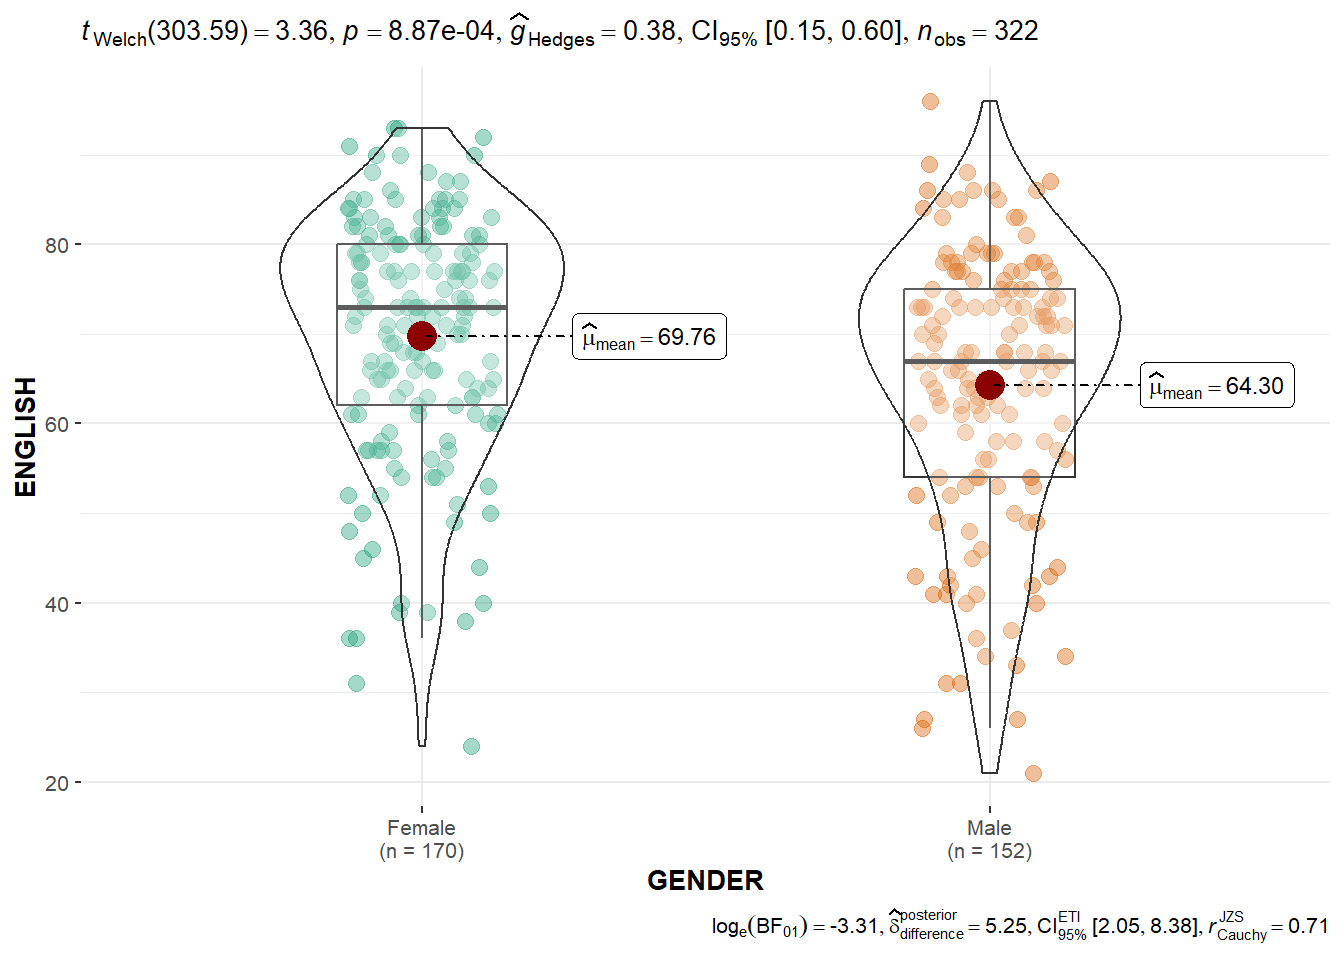
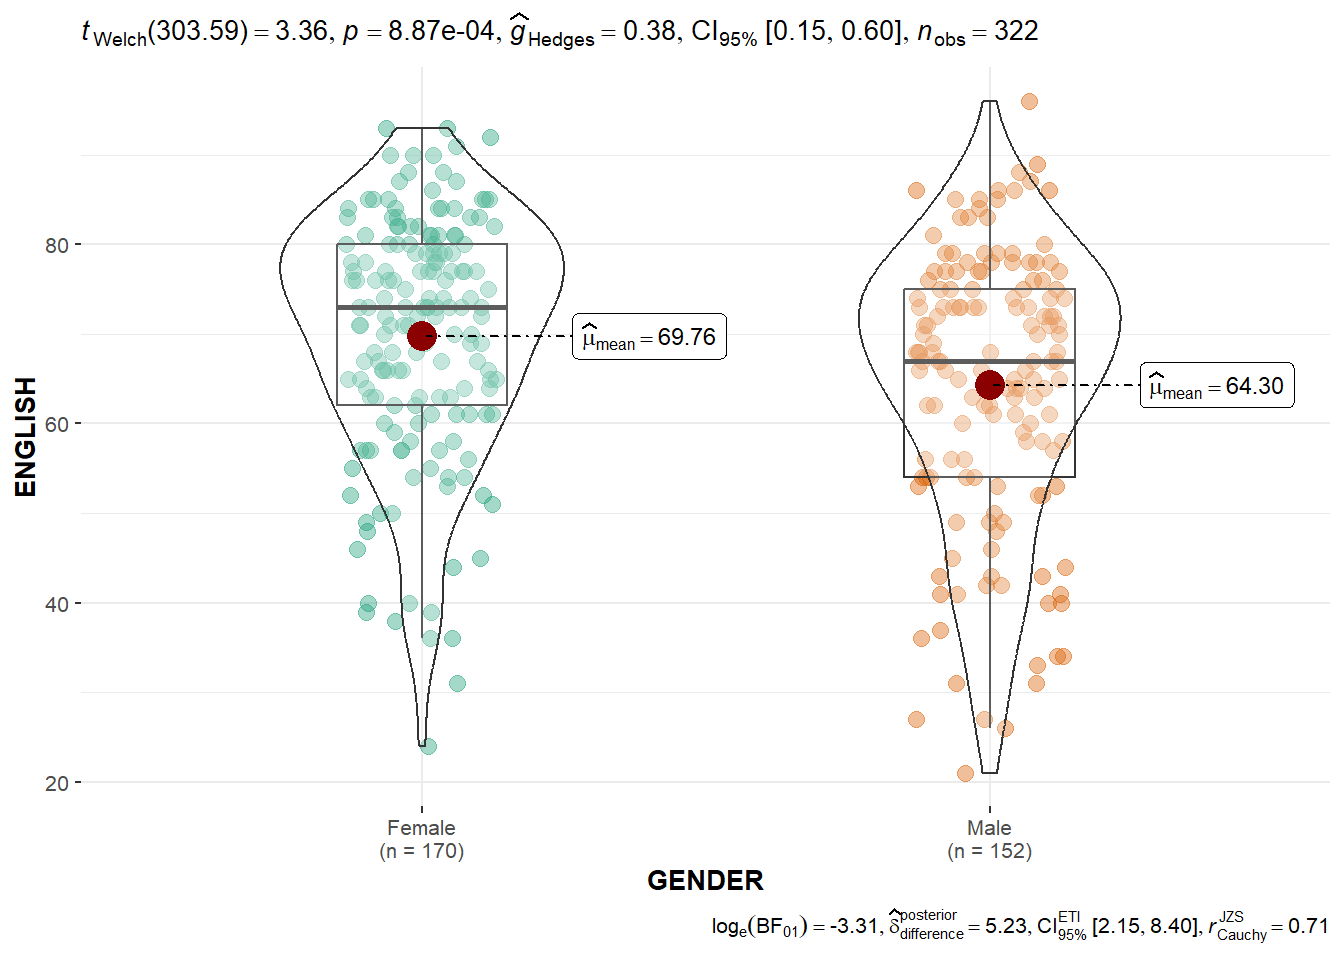
commit again2

diff --git a/_site/two-samples_test.html b/_site/two-samples_test.html
@@ -97,7 +97,7 @@ ul.task-list li input[type="checkbox"] {
     </a>
     <ul class="dropdown-menu" aria-labelledby="nav-menu-visual-statistics">    
         <li>
-    <a class="dropdown-item" href="./Two-samples_test.html">
+    <a class="dropdown-item" href="./two-samples_test.html">
  <span class="dropdown-text">Two-samples Test</span></a>
   </li>  
     </ul>
